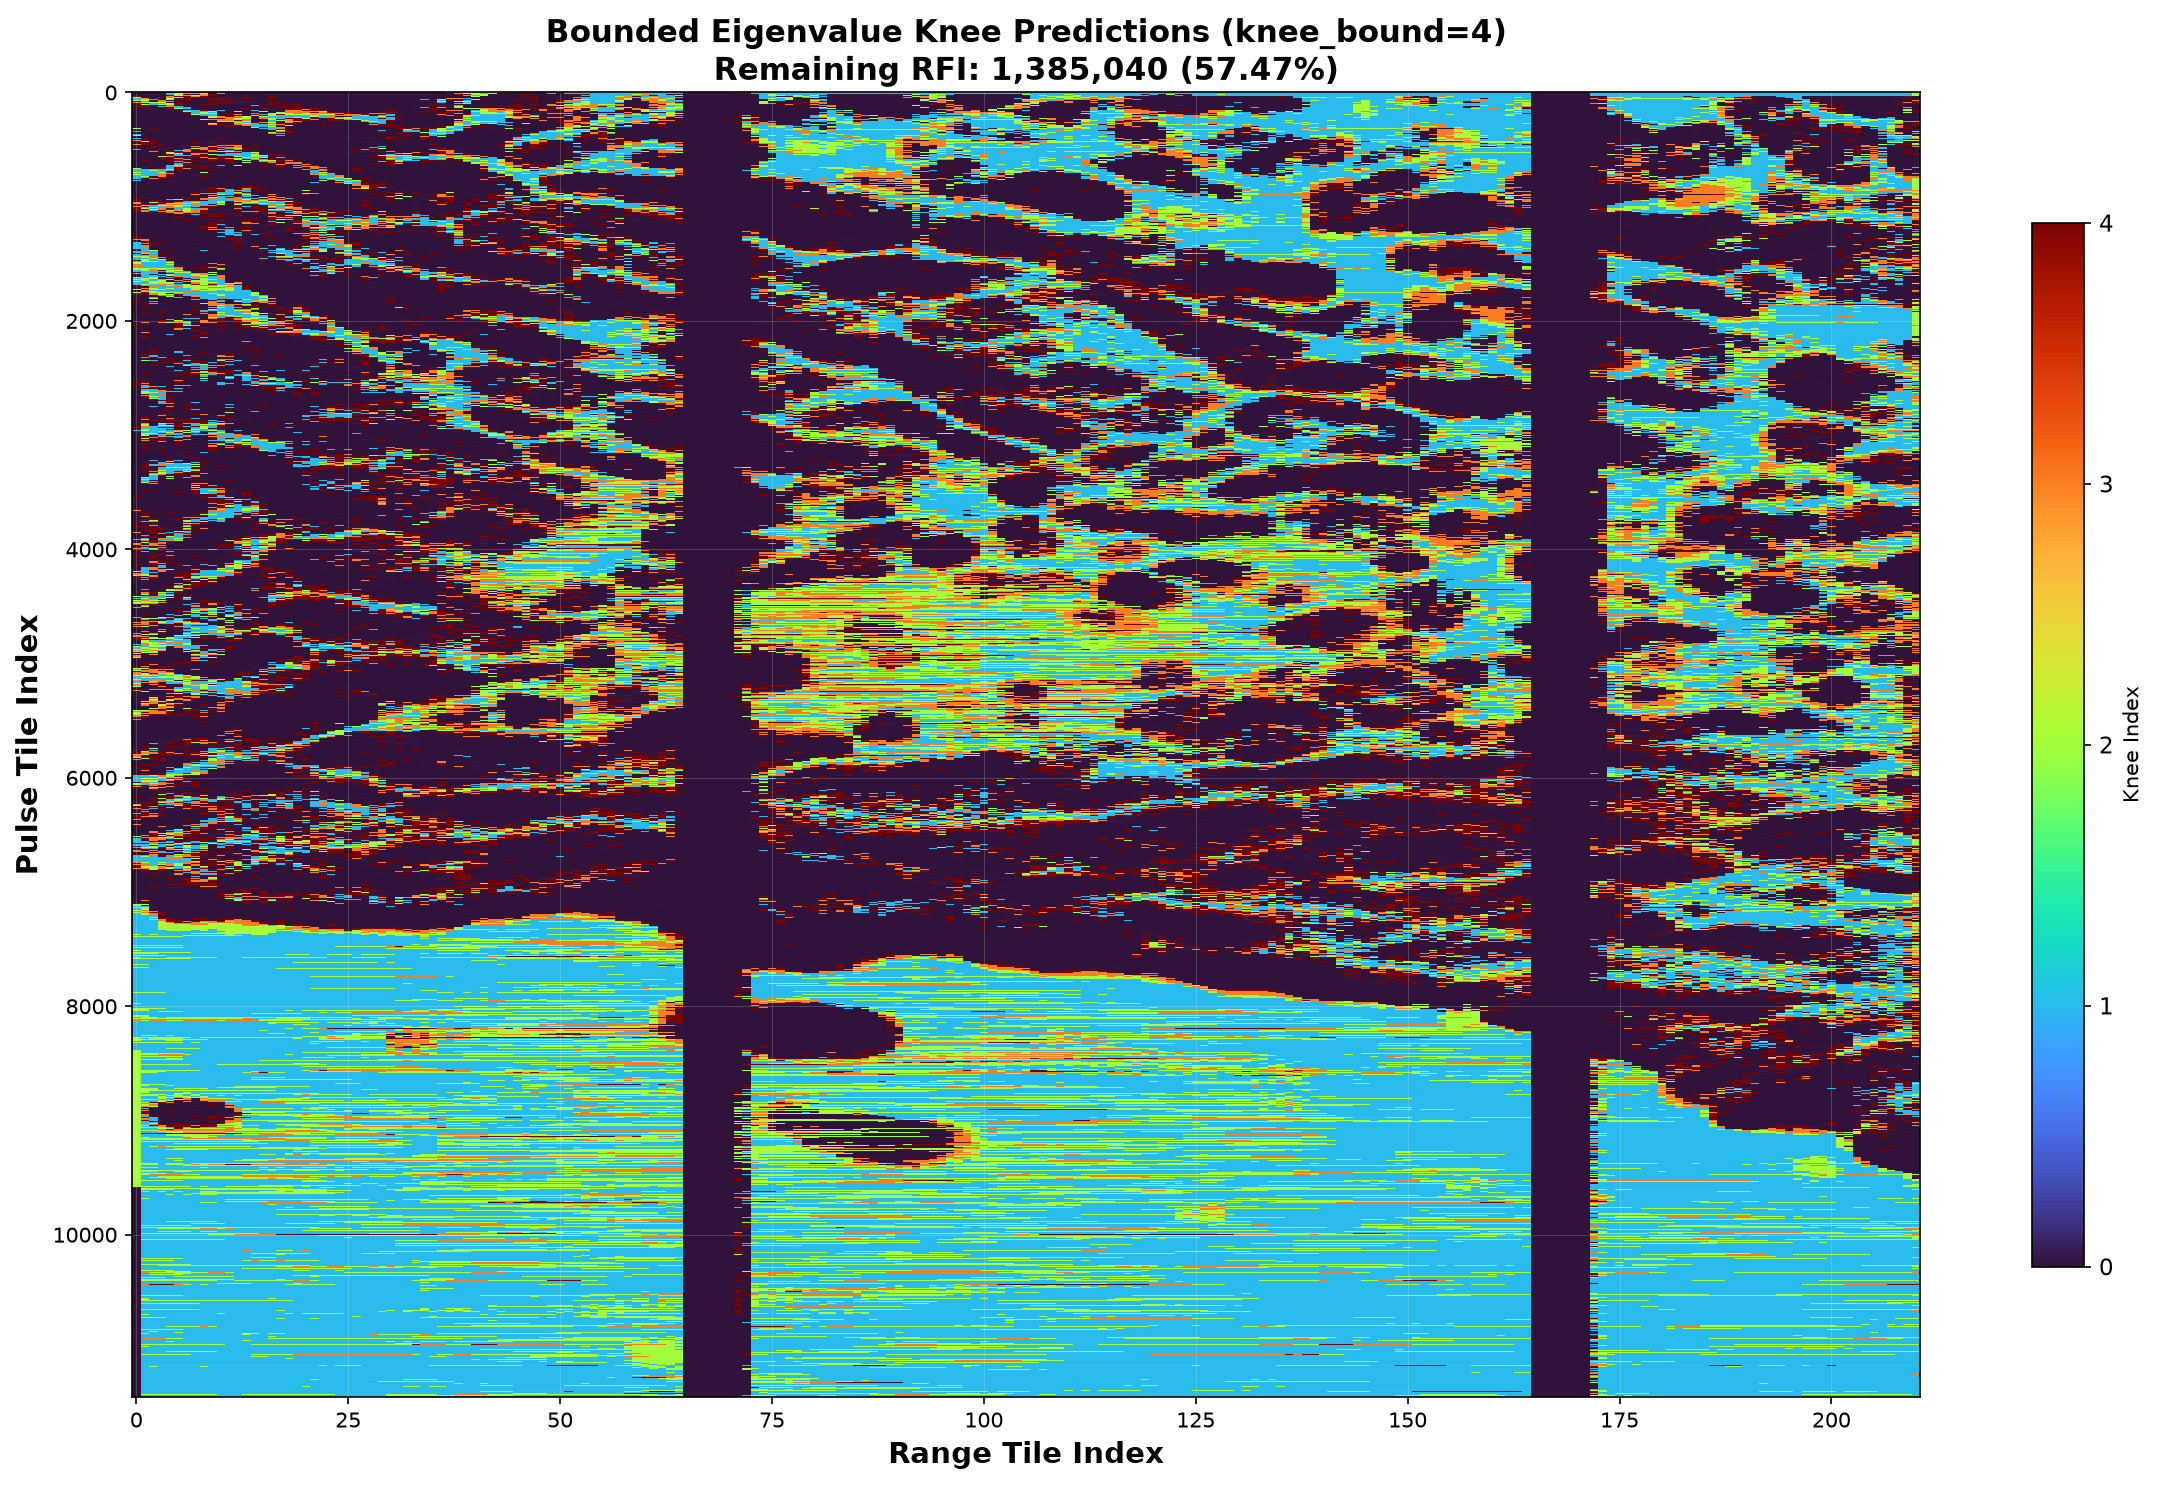
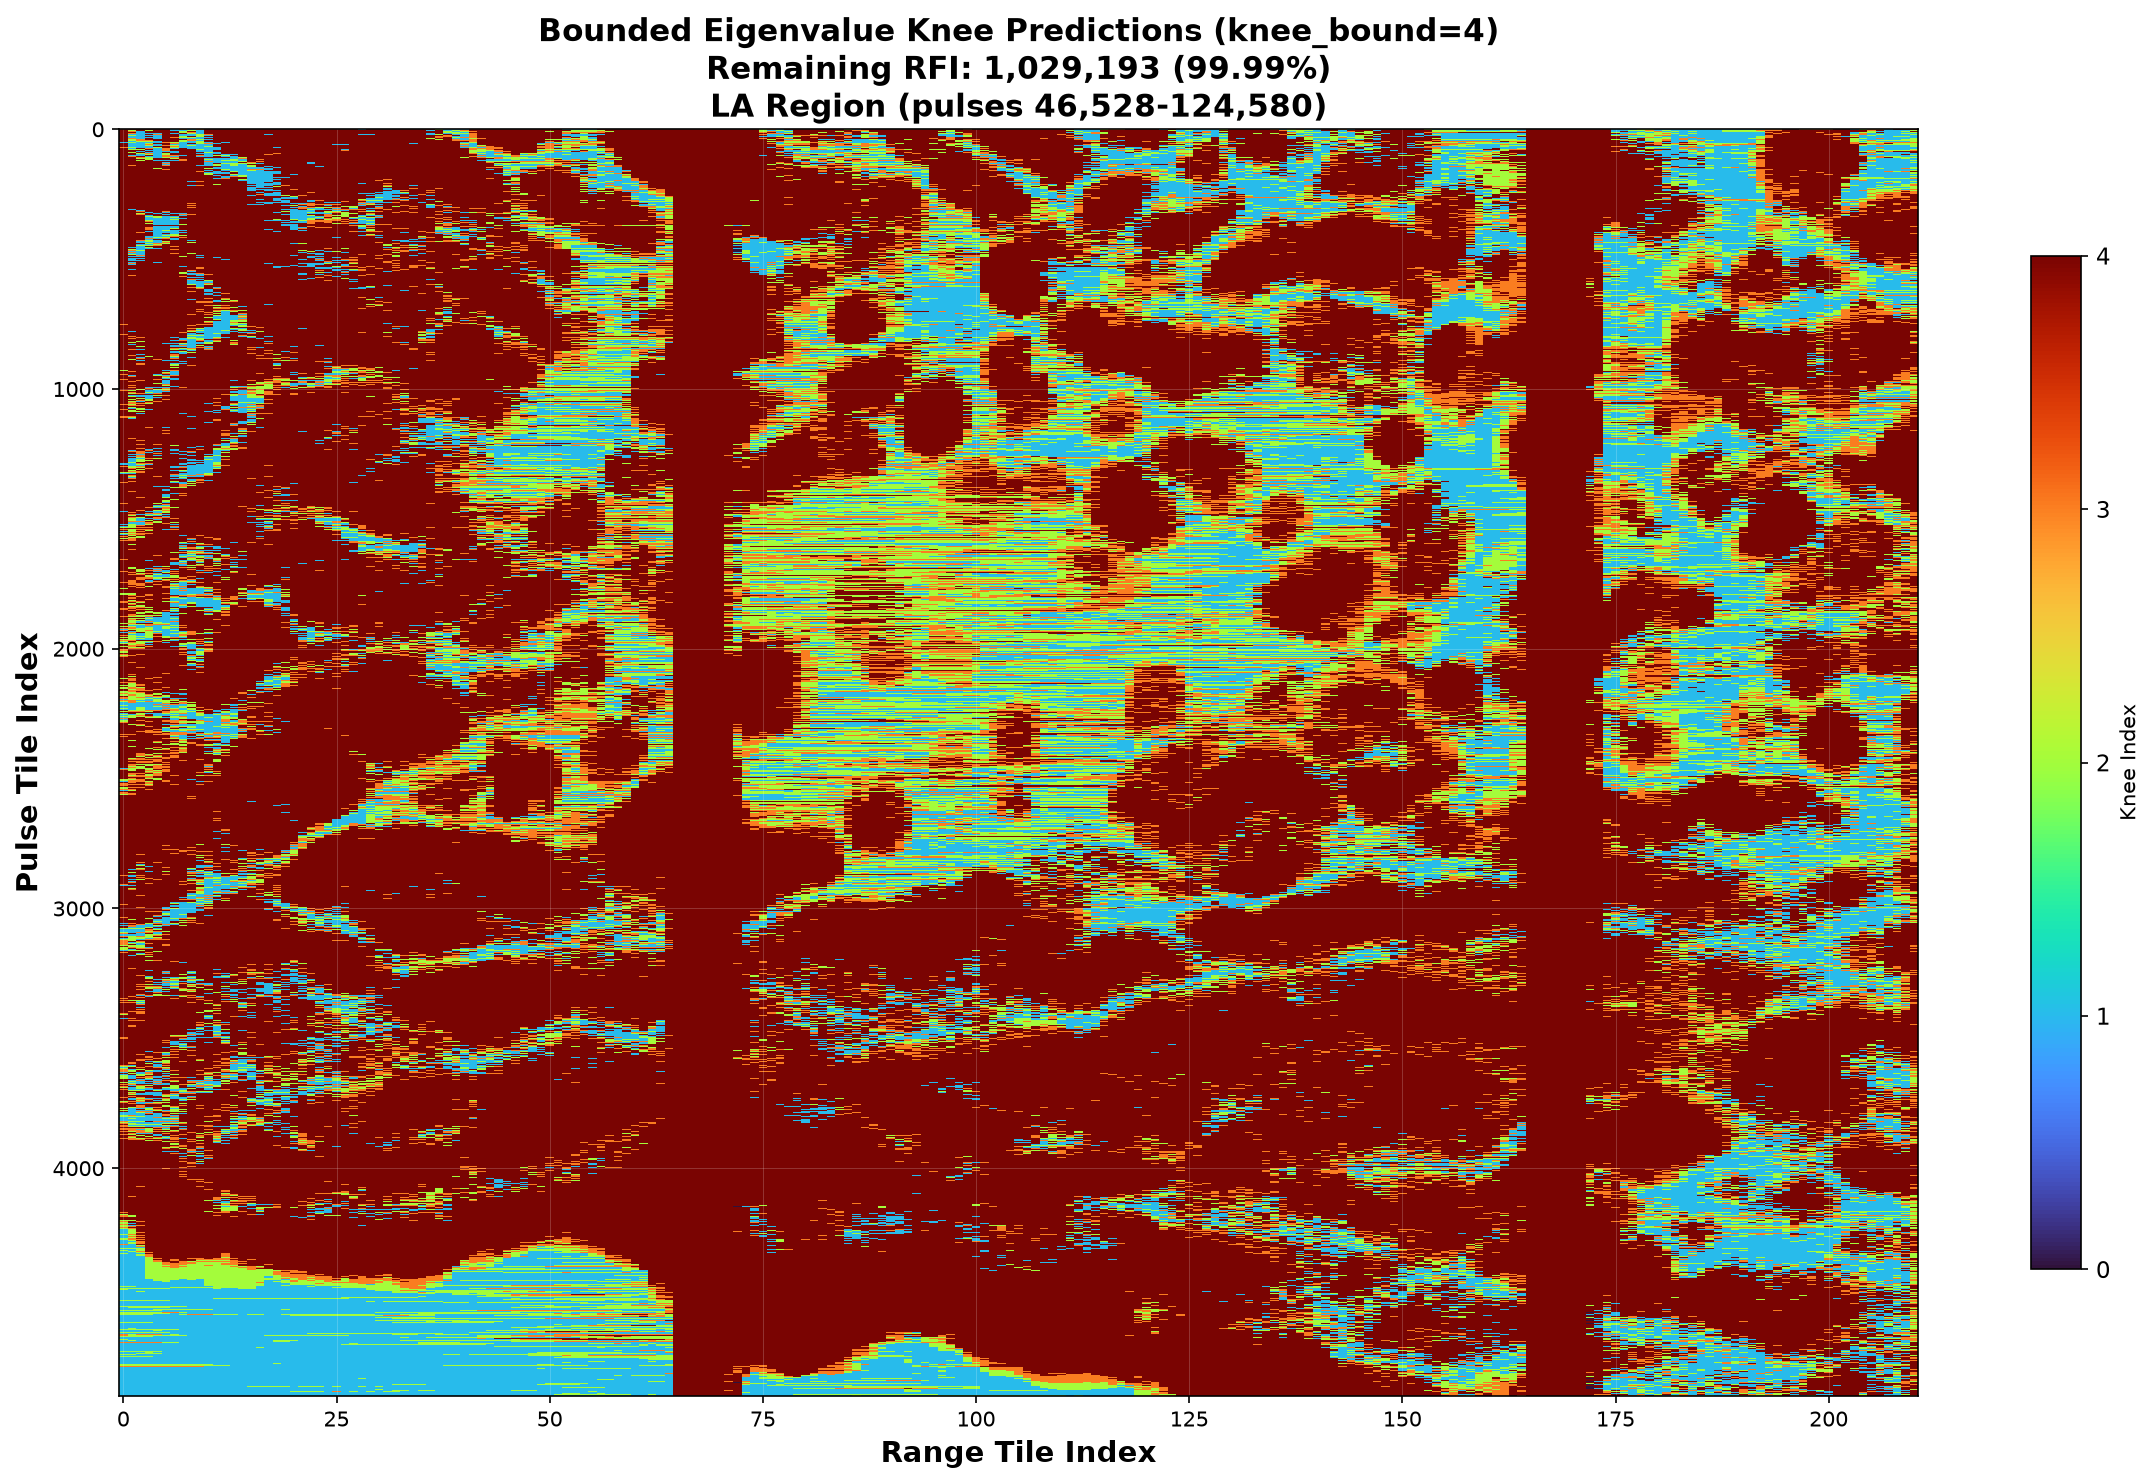
update plots

diff --git a/full_nisar_streaming/plot_nisar_predictions.py b/full_nisar_streaming/plot_nisar_predictions.py
@@ -11,7 +11,7 @@ This script reads the HDF5 output from process_nisar_streaming_batched.py and ge
 Convention:
 - Clean: knee index = 0
 - Contaminated: knee indices 1-16 (number of pulses contaminated by RFI)
-- Bounding: Any knee > knee_bound is set to 0 (treated as clean/recoverable)
+- Bounding: Any knee > knee_bound is capped at knee_bound (treated as recoverable)
 
 Usage:
     python plot_nisar_predictions.py hv_outputs.h5 --knee-bound 4
@@ -98,7 +98,7 @@ def load_predictions(h5_path, la_only=False):
 
 def compute_bounded_map(pred_map, knee_bound):
     """
-    Create bounded map where knee values > knee_bound are set to 0.
+    Create bounded map where knee values > knee_bound are set to knee_bound.
 
     Args:
         pred_map (np.ndarray): Original predictions
@@ -109,7 +109,7 @@ def compute_bounded_map(pred_map, knee_bound):
         stats (dict): Bounding statistics
     """
     bounded_map = pred_map.copy()
-    bounded_map[bounded_map > knee_bound] = 0
+    bounded_map[bounded_map > knee_bound] = knee_bound
 
     total_cpis = pred_map.size
     n_original_rfi = np.sum(pred_map > 0)
@@ -144,7 +144,7 @@ def plot_histogram_comparison(predictions, knee_bound, output_path, metadata=Non
     # Flatten predictions
     pred_flat = predictions.flatten()
     bounded_flat = predictions.copy()
-    bounded_flat[bounded_flat > knee_bound] = 0
+    bounded_flat[bounded_flat > knee_bound] = knee_bound
     bounded_flat = bounded_flat.flatten()
 
     # Get unique knee values
@@ -334,7 +334,7 @@ def main():
     parser.add_argument('h5_file', help='Input HDF5 file from process_nisar_streaming_batched.py')
     parser.add_argument('--knee-bound', type=int, default=4,
                         help='Maximum knee value to preserve (default: 4). '
-                             'Any knee > knee_bound is set to 0 (recovered as clean)')
+                             'Any knee > knee_bound is capped at knee_bound (recoverable)')
     parser.add_argument('--output-dir', default=None,
                         help='Output directory for plots (default: same as input file)')
     parser.add_argument('--no-individual', action='store_true',
